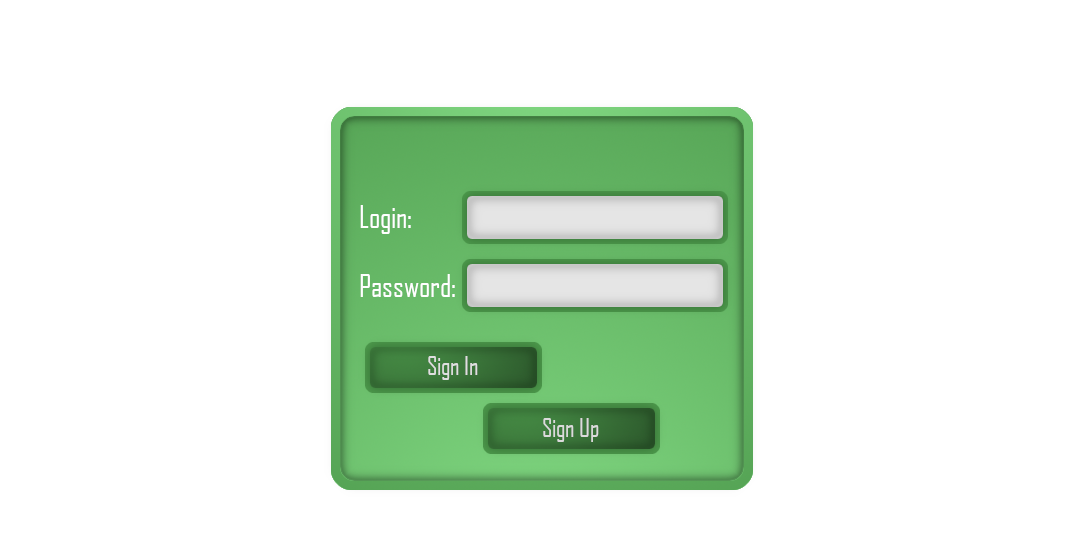
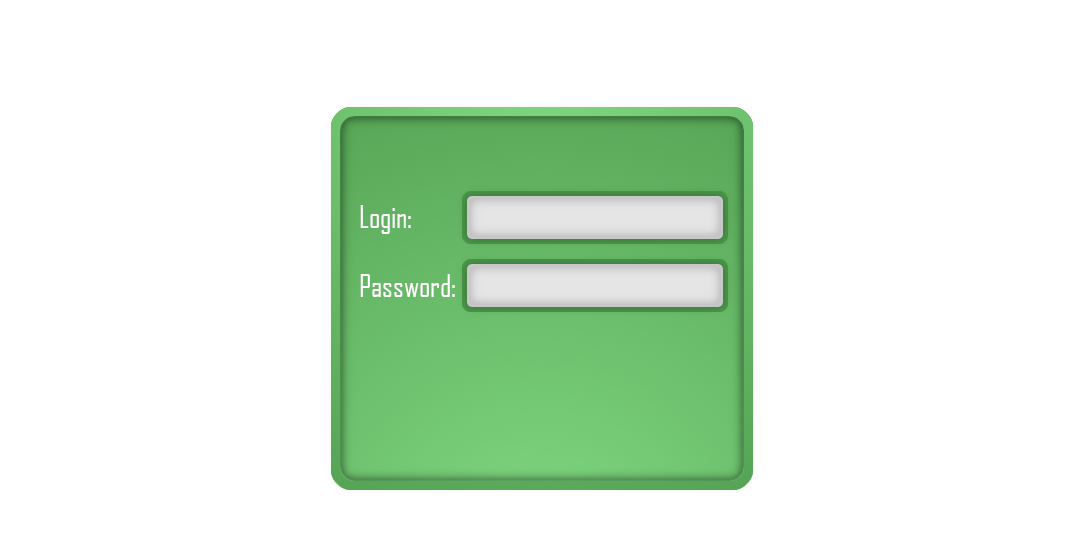
[core|mainmenu] button class added, main menu buttons configured

Changed region(s): [[0.3361, 0.6222, 0.6111, 0.8593]]

diff --git a/Client/src/states/mainMenuState.py b/Client/src/states/mainMenuState.py
@@ -1,11 +1,15 @@
+import pygame
+
 from src.core.states.state import *
 from src.core.widgets.label import Label
+from src.core.widgets.button import Button
 from src.core.util.utilis import lerp, start_delayed
 
 class MainMenuState(State):
     def __init__(self, context, state_manager):
         super().__init__(context,state_manager)
         self._init_state_content()
+        self._init_widgets()
         self.bInputEnabled = False
         self.bLogoAnimEnabled = False
         self.bLogoAnimGoingDown = True
@@ -21,10 +25,26 @@ class MainMenuState(State):
                                                    "res/img/logo.png", Texture)
         self.context.texture_manager.load_resource(TextureID.Clouds,
                                                    "res/img/clouds.png", Texture)
+        self.context.texture_manager.load_resource(TextureID.ButtonSignIn,
+                                                   "res/img/button_signin.png", Texture)
+        self.context.texture_manager.load_resource(TextureID.ButtonSignUp,
+                                                   "res/img/button_signup.png", Texture)
 
     def _init_widgets(self):
-        #self.widget_manager.init_widget("Label1",Label(Vec2(0, 0), "Welcome sportsman!", 77, font="Agency FB"))
-        pass
+        texture_manager = self.state_manager.context.texture_manager
+        self.widget_manager.init_widget("ButtonSignIn",
+                                        Button(Vec2(356,846),texture_manager.get_resource(TextureID.ButtonSignIn)))
+        self.widget_manager.init_widget("ButtonSignUp",
+                                        Button(Vec2(475, 918), texture_manager.get_resource(TextureID.ButtonSignUp)))
+
+        self.widget_manager.get_widget("ButtonSignIn").set_callback(self._sign_in_onclick)
+        self.widget_manager.get_widget("ButtonSignUp").set_callback(self._sign_up_onclick)
+
+    def _sign_in_onclick(self):
+        print("sign_in_")
+
+    def _sign_up_onclick(self):
+        print("sign_up_")
 
     def _init_state_content(self):
         texture_manager = self.state_manager.context.texture_manager
@@ -52,10 +72,15 @@ class MainMenuState(State):
         #logo
         self.logo.draw(self.context.window)
         #widgets
-        #self.widget_manager.draw_widgets(self.context.window)
+        self.widget_manager.draw_widgets(self.context.window)
 
     def _on_event(self, events: List[pygame.event.Event]) -> None:
-        pass
+        mouse_pos = pygame.mouse.get_pos()
+        for event in events:
+            if event.type == pygame.MOUSEBUTTONDOWN:
+                if self.bInputEnabled:
+                    self.widget_manager.get_widget("ButtonSignIn").check_for_onclick(mouse_pos)
+                    self.widget_manager.get_widget("ButtonSignUp").check_for_onclick(mouse_pos)
 
     def _on_awake(self) -> None:
         pass
@@ -64,12 +89,22 @@ class MainMenuState(State):
         self.bLogoAnimEnabled = True
 
     def _on_update(self, dt: float) -> None:
+        # update widgets
+        self.widget_manager.update_widgets()
+
         #update login_panel animation
+        button_sign_in = self.widget_manager.get_widget("ButtonSignIn")
+        button_sign_up = self.widget_manager.get_widget("ButtonSignUp")
         if self.login_panel.position.y > 25:
             self.login_panel.set_position(0,lerp(self.login_panel.position.y,15.0,0.007))
+            button_sign_in.set_position(356,lerp(button_sign_in.pos.y,346, 0.007))
+            button_sign_up.set_position(475,lerp(button_sign_up.pos.y,418, 0.007))
         else:
+            button_sign_in.set_initial_pos(Vec2(356,356))
+            button_sign_up.set_initial_pos(Vec2(475,418))
             self.bInputEnabled = True
             start_delayed(0.6,self._enable_logo_anim)
+
 
         #update logo animation
         if self.bLogoAnimEnabled:
@@ -89,4 +124,6 @@ class MainMenuState(State):
             clouds.move(Vec2(0.3, 0))
             if clouds.position.x > self.context.window.get_width():
                 clouds.set_position(-self.context.window.get_width(), 0)
+
+
 

diff --git a/Client/src/core/widgets/button.py b/Client/src/core/widgets/button.py
@@ -1,0 +1,57 @@
+from src.core.widgets.widget import Widget
+from src.core.util.vector import Vec2
+from src.core.util.utilis import lerp
+from src.core.resources.texture import Texture
+from typing import Callable
+import pygame
+
+class Button(Widget):
+    def __init__(self, pos: Vec2, texture: Texture) -> None:
+        super().__init__(pos)
+        pygame.sprite.Sprite.__init__(self)
+        self.image = texture.image
+        self.rect = self.image.get_rect()
+        self.rect.topleft = [self.pos.x, self.pos.y]
+        self._callback : Callable = None
+        self._initial_pos = pos
+        self.covered = False
+
+    def _cursor_in_bounds(self, mouse_pos):
+        if self.rect.left <= mouse_pos[0] <= self.rect.right and self.rect.top <= mouse_pos[1] <= self.rect.bottom:
+            return True
+        else:
+            return False
+
+    def check_for_onclick(self, mouse_pos):
+        if self.covered:
+            if self._callback is not None:
+                self._callback()
+
+    def set_callback(self, func: Callable):
+        self._callback = func
+
+    def set_initial_pos(self, pos : Vec2):
+        self._initial_pos = pos
+
+    def update(self):
+        mouse_pos = pygame.mouse.get_pos()
+        if self._cursor_in_bounds(mouse_pos):
+            self.covered = True
+            self.set_position(lerp(self.pos.x,self._initial_pos.x + 7,0.155),self.pos.y)
+        else:
+            self.covered = False
+            self.set_position(lerp(self.pos.x, self._initial_pos.x, 0.155), self.pos.y)
+
+    def render(self):
+        pass
+
+    def set_position(self,x: int, y: int) -> None:
+        self.pos.x = self.rect.left = x
+        self.pos.y = self.rect.top = y
+
+    def move(self, vec : Vec2) -> None:
+        self.pos.x += vec.x
+        self.pos.y += vec.y
+        self.rect.left = self.pos.x
+        self.rect.top = self.pos.y
+

diff --git a/Client/src/core/widgets/widgetManager.py b/Client/src/core/widgets/widgetManager.py
@@ -11,9 +11,13 @@ class WidgetManager:
         self._widgetsHolder.add(widget)
         self._insert_widget(name,widget)
 
-    def get_widget(self, name: str):
+    def get_widget(self, name: str) -> Widget:
         assert (name in self._widgetsDict)
         return self._widgetsDict[name]
+
+    def update_widgets(self):
+        for widget in self._widgetsDict.values():
+            widget.update()
 
     def draw_widgets(self, window):
         self._widgetsHolder.draw(window)
@@ -21,5 +25,4 @@ class WidgetManager:
     def _insert_widget(self, key, widget):
         if key not in self._widgetsDict:
             self._widgetsDict[key] = widget
-
 

diff --git a/Client/src/core/resources/resourceManager.py b/Client/src/core/resources/resourceManager.py
@@ -13,12 +13,14 @@ class TextureID(Enum):
     Ball = 5
     Logo = 6
     Clouds = 7
+    ButtonSignIn = 8
+    ButtonSignUp = 9
 
 class ResourceManager(Generic[ResType]):
     def __init__(self) -> None:
-        self.resources: dict[str,ResType] = {}
+        self.resources: dict[any,ResType] = {}
 
-    def _insert_resource(self, key:str, item: ResType) -> None:
+    def _insert_resource(self, key, item: ResType) -> None:
         if key not in self.resources:
             self.resources[key] = item
 

diff --git a/Client/src/core/client.py b/Client/src/core/client.py
@@ -33,10 +33,12 @@ class Client:
 
 
     def _process_events(self) -> None:
-        for event in pygame.event.get():
+        temp_events = pygame.event.get()
+        self._state_manager.on_event(temp_events)
+        for event in temp_events:
             if event.type == pygame.QUIT:
                 self._running = False
-        self._state_manager.on_event(pygame.event.get())
+
 
     def run(self) -> None:
         self._running = True
